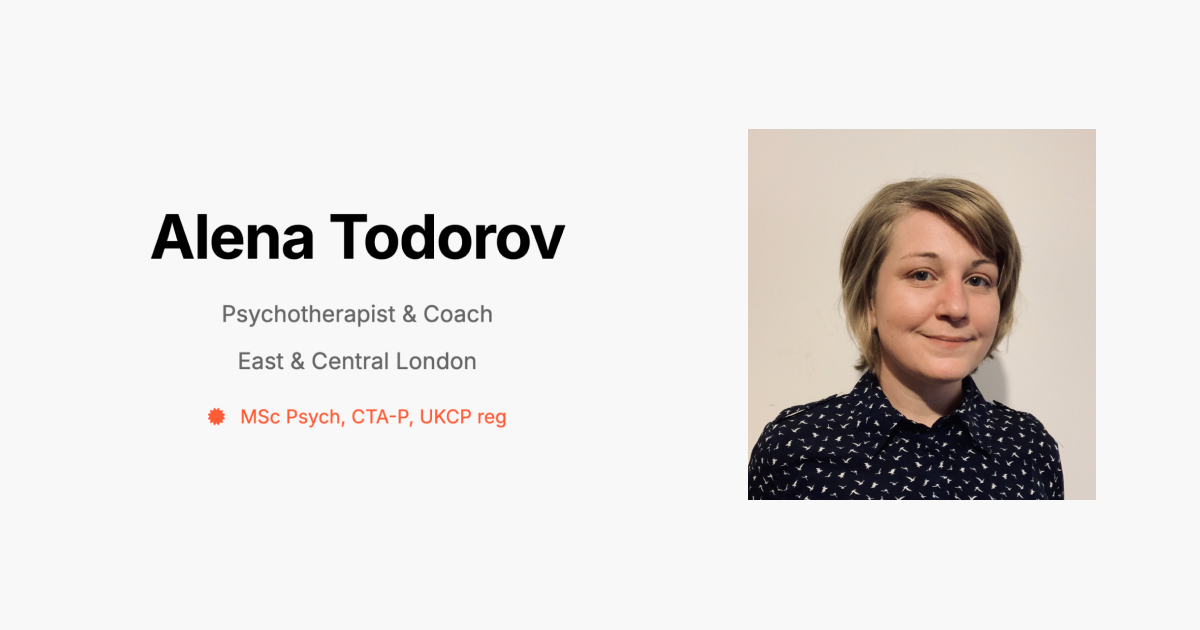
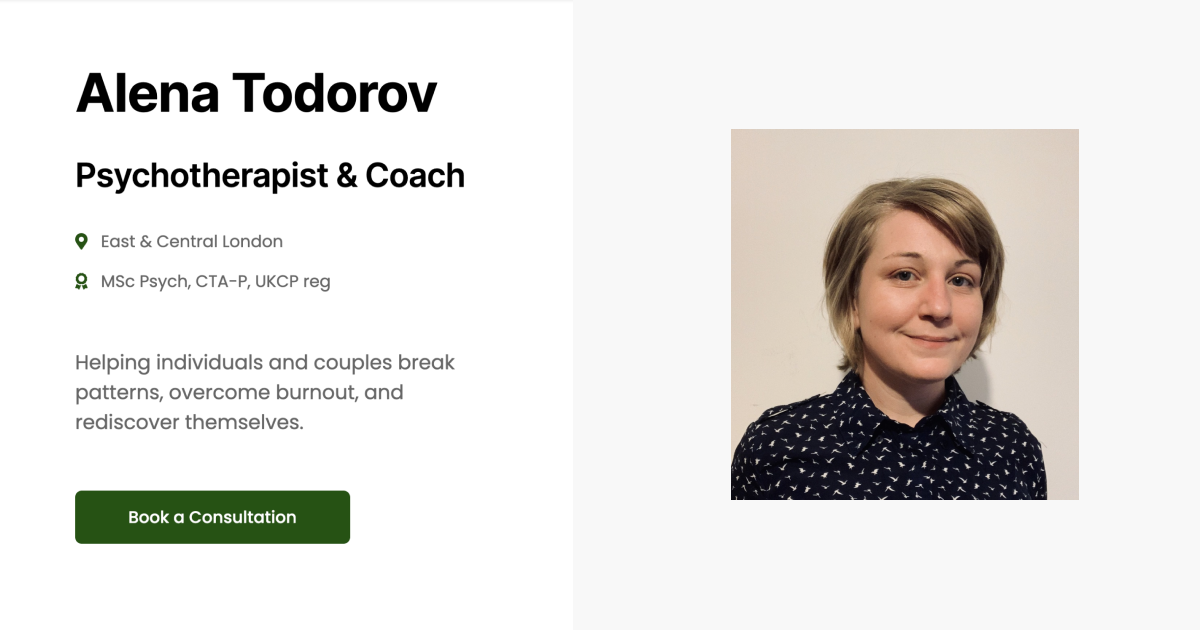
update with poppins

diff --git a/main.js b/main.js
@@ -1,0 +1,199 @@
+/**
+ * Main JavaScript file for Alena Todorov's therapy website
+ */
+
+// Wait for DOM to be fully loaded before executing code
+document.addEventListener('DOMContentLoaded', () => {
+  // Initialize components
+  initAOS();
+  initSmoothScroll();
+  initMobileMenu();
+  initDetailsAnimation();
+  initAccordion();
+});
+
+/**
+ * Initialize AOS (Animate On Scroll) library
+ */
+const initAOS = () => {
+  try {
+    AOS.init({
+      duration: 800,
+      offset: 50,
+      once: true
+    });
+  } catch (error) {
+    console.error('Error initializing AOS:', error);
+  }
+};
+
+/**
+ * Initialize smooth scrolling for navigation links
+ */
+const initSmoothScroll = () => {
+  const sections = document.querySelectorAll('section[id]');
+  const navLinks = document.querySelectorAll('a[href^="#"]');
+  
+  // Add smooth scroll behavior to all internal links
+  navLinks.forEach(link => {
+    link.addEventListener('click', event => {
+      // Only process internal links
+      const targetId = link.getAttribute('href');
+      if (targetId.startsWith('#')) {
+        event.preventDefault();
+        
+        // Handle special case for top of page
+        if (targetId === '#') {
+          window.scrollTo({
+            top: 0,
+            behavior: 'smooth'
+          });
+        } else {
+          const targetElement = document.querySelector(targetId);
+          if (targetElement) {
+            targetElement.scrollIntoView({
+              behavior: 'smooth'
+            });
+          }
+        }
+      }
+    });
+  });
+  
+  // Highlight active section in navigation
+  if (sections.length > 0 && navLinks.length > 0) {
+    // Debounce function to limit scroll event processing
+    const debounce = (func, wait = 100) => {
+      let timeout;
+      return (...args) => {
+        clearTimeout(timeout);
+        timeout = setTimeout(() => func(...args), wait);
+      };
+    };
+    
+    const highlightNavigation = debounce(() => {
+      const scrollPosition = window.scrollY;
+      
+      sections.forEach(section => {
+        const sectionTop = section.offsetTop - 100;
+        const sectionHeight = section.offsetHeight;
+        const sectionId = section.getAttribute('id');
+        
+        if (scrollPosition >= sectionTop && scrollPosition < sectionTop + sectionHeight) {
+          navLinks.forEach(link => {
+            link.classList.remove('active');
+            if (link.getAttribute('href') === '#' + sectionId) {
+              link.classList.add('active');
+            }
+          });
+        }
+      });
+    }, 100);
+    
+    window.addEventListener('scroll', highlightNavigation, { passive: true });
+    highlightNavigation(); // Run on initial load
+  }
+};
+
+/**
+ * Initialize mobile menu functionality
+ */
+const initMobileMenu = () => {
+  const menuButton = document.getElementById('menuButton');
+  const mobileMenu = document.getElementById('mobileMenu');
+  
+  if (menuButton && mobileMenu) {
+    menuButton.addEventListener('click', () => {
+      // Toggle menu visibility
+      const isVisible = mobileMenu.classList.contains('hidden');
+      
+      if (isVisible) {
+        mobileMenu.classList.remove('hidden');
+        menuButton.setAttribute('aria-expanded', 'true');
+        // Change icon to X when menu is open
+        const icon = menuButton.querySelector('i');
+        if (icon) {
+          icon.classList.remove('fa-bars');
+          icon.classList.add('fa-times');
+        }
+      } else {
+        mobileMenu.classList.add('hidden');
+        menuButton.setAttribute('aria-expanded', 'false');
+        // Change icon back to bars when menu is closed
+        const icon = menuButton.querySelector('i');
+        if (icon) {
+          icon.classList.remove('fa-times');
+          icon.classList.add('fa-bars');
+        }
+      }
+    });
+    
+    // Close mobile menu when clicking on a link
+    const mobileLinks = mobileMenu.querySelectorAll('a');
+    mobileLinks.forEach(link => {
+      link.addEventListener('click', () => {
+        mobileMenu.classList.add('hidden');
+        menuButton.setAttribute('aria-expanded', 'false');
+        // Reset icon
+        const icon = menuButton.querySelector('i');
+        if (icon) {
+          icon.classList.remove('fa-times');
+          icon.classList.add('fa-bars');
+        }
+      });
+    });
+  }
+};
+
+/**
+ * Add animation to details elements (accordion functionality)
+ * Note: This is now handled by CSS, but we add click handlers for the plus/minus icons
+ */
+const initDetailsAnimation = () => {
+  const detailsElements = document.querySelectorAll('details');
+  
+  detailsElements.forEach(details => {
+    const summary = details.querySelector('summary');
+    const icon = summary?.querySelector('i');
+    
+    if (summary && icon) {
+      // Update icon when details is toggled
+      details.addEventListener('toggle', () => {
+        if (details.open) {
+          icon.classList.add('rotate-45');
+        } else {
+          icon.classList.remove('rotate-45');
+        }
+      });
+    }
+  });
+};
+
+/**
+ * Initialize accordion functionality for the services section
+ */
+const initAccordion = () => {
+  const accordionHeaders = document.querySelectorAll('.accordion-header');
+  
+  if (accordionHeaders.length > 0) {
+    accordionHeaders.forEach(header => {
+      header.addEventListener('click', () => {
+        const body = header.nextElementSibling;
+        const isActive = header.classList.contains('active');
+        
+        // Close all accordion items
+        document.querySelectorAll('.accordion-header').forEach(h => {
+          h.classList.remove('active');
+          const b = h.nextElementSibling;
+          if (b) b.style.maxHeight = null;
+        });
+        
+        // Open clicked item if it was closed
+        if (!isActive) {
+          header.classList.add('active');
+          if (body) body.style.maxHeight = body.scrollHeight + "px";
+        }
+      });
+    });
+  }
+};

diff --git a/index.html b/index.html
@@ -7,7 +7,6 @@
         window.dataLayer = window.dataLayer || [];
         function gtag(){dataLayer.push(arguments);}
         gtag('js', new Date());
-
         gtag('config', 'G-JH1798MB9Y');
     </script>
     <meta charset="UTF-8">
@@ -36,61 +35,11 @@
     <link rel="stylesheet" href="styles.css">
     
     <!-- Fonts -->
-    <link href="https://fonts.googleapis.com/css2?family=Inter:wght@400;500;600;700&display=swap" rel="stylesheet">
+    <!-- Poppins Font -->
+    <link href="https://fonts.googleapis.com/css2?family=Poppins:wght@300;400;500;600;700&display=swap" rel="stylesheet">
     
-    <!-- Smooth Scroll -->
-    <script>
-        document.addEventListener('DOMContentLoaded', function() {
-            const sections = document.querySelectorAll('section[id]');
-            const navLinks = document.querySelectorAll('.main-nav a');
-            
-            // Smooth scroll
-            navLinks.forEach(anchor => {
-                anchor.addEventListener('click', function (e) {
-                    e.preventDefault();
-                    document.querySelector(this.getAttribute('href')).scrollIntoView({
-                        behavior: 'smooth'
-                    });
-                });
-            });
-            
-            // Debounce function
-            function debounce(func, wait) {
-                let timeout;
-                return function executedFunction(...args) {
-                    const later = () => {
-                        clearTimeout(timeout);
-                        func(...args);
-                    };
-                    clearTimeout(timeout);
-                    timeout = setTimeout(later, wait);
-                };
-            }
-            
-            // Highlight active section
-            const highlightNavigation = debounce(function() {
-                let scrollPosition = window.scrollY;
-                
-                sections.forEach(section => {
-                    const sectionTop = section.offsetTop - 100;
-                    const sectionHeight = section.offsetHeight;
-                    const sectionId = section.getAttribute('id');
-                    
-                    if (scrollPosition >= sectionTop && scrollPosition < sectionTop + sectionHeight) {
-                        navLinks.forEach(link => {
-                            link.classList.remove('active');
-                            if (link.getAttribute('href') === '#' + sectionId) {
-                                link.classList.add('active');
-                            }
-                        });
-                    }
-                });
-            }, 100); // Debounce by 100ms
-
-            window.addEventListener('scroll', highlightNavigation, { passive: true });
-            highlightNavigation(); // Run on load
-        });
-    </script>
+    <!-- Custom JavaScript -->
+    <script src="main.js" defer></script>
 </head>
 <body>
     <!-- Header -->
@@ -311,35 +260,10 @@
         </div>
     </section>
 
-    <script>
-        // Initialize AOS after DOM is loaded
-        document.addEventListener('DOMContentLoaded', () => {
-            AOS.init({
-                duration: 800,
-                offset: 50,
-                once: true
-            });
-        });
-
-        // Accordion functionality
-        document.querySelectorAll('.accordion-header').forEach(header => {
-            header.addEventListener('click', () => {
-                const body = header.nextElementSibling;
-                const isOpen = header.classList.contains('active');
-                
-                // Close all accordion items
-                document.querySelectorAll('.accordion-header').forEach(h => {
-                    h.classList.remove('active');
-                    h.nextElementSibling.style.maxHeight = null;
-                });
-                
-                // Open clicked item if it was closed
-                if (!isOpen) {
-                    header.classList.add('active');
-                    body.style.maxHeight = body.scrollHeight + "px";
-                }
-            });
-        });
-    </script>
+    <footer class="bg-gray-100 py-8 text-center text-gray-500 text-sm">
+        <div class="container mx-auto px-4">
+            <p>&copy; 2025 Alena Todorov. All rights reserved.</p>
+        </div>
+    </footer>
 </body>
 </html>

diff --git a/styles.css b/styles.css
@@ -5,7 +5,8 @@
     /* Colors */
     --primary-color: #000000;
     --secondary-color: #666666;
-    --accent-color: #38761D;
+    --accent-color: #265214;
+    --accent-color-hover: #224712;
     --background-color: #ffffff;
     --text-color: #333333;
     --light-gray: #f8f8f8;
@@ -36,7 +37,7 @@
 html, body {
     margin: 0;
     padding: 0;
-    font-family: 'Inter', sans-serif;
+    font-family: 'Poppins', sans-serif;
     color: var(--text-color);
     line-height: 1.6;
     overflow-x: hidden;
@@ -205,7 +206,7 @@ h1 {
 }
 
 .button:hover {
-    background-color: #3f4aa8;
+    background-color: var(--accent-color-hover);
     color: white;
     transform: translateY(-1px);
 }
@@ -752,4 +753,21 @@ ul {
     .button {
         padding: var(--spacing-sm) var(--spacing-xl);
     }
+}
+
+/* Animations */
+@keyframes fadeIn {
+    from { opacity: 0; }
+    to { opacity: 1; }
+}
+
+.animate-fade-in {
+    animation: fadeIn 0.5s ease-out;
+}
+
+details[open] div {
+    max-height: 500px; /* Adjust if content is taller */
+    opacity: 1;
+    margin-top: 1rem; /* Add margin back when open (matches original mt-4) */
+    transition: max-height 0.5s ease-in-out, opacity 0.5s 0.1s ease-in-out, margin-top 0.3s ease-in-out;
 }
